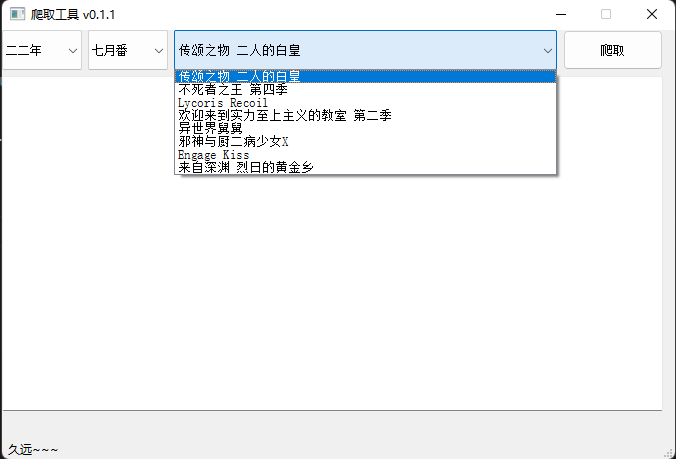
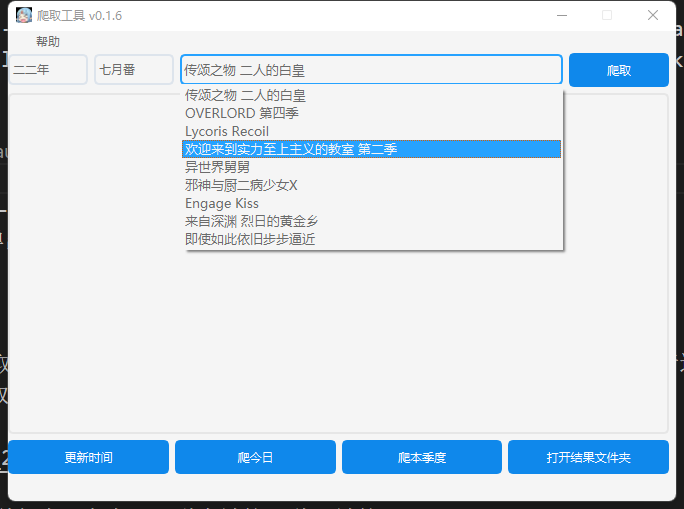
v1.0.0

Changed region(s): [[0.0, 0.0, 1.0, 1.0], [0.8698, 0.0, 0.9009, 0.0305], [0.8077, 0.0, 0.8388, 0.0305]]

diff --git a/gui.py b/gui.py
@@ -14,11 +14,11 @@ from PyQt5 import QtCore, QtGui, QtWidgets
 class Ui_MainWindow(object):
     def setupUi(self, MainWindow):
         MainWindow.setObjectName("MainWindow")
-        MainWindow.resize(673, 429)
+        MainWindow.resize(668, 470)
         self.centralwidget = QtWidgets.QWidget(MainWindow)
         self.centralwidget.setObjectName("centralwidget")
         self.verticalLayoutWidget = QtWidgets.QWidget(self.centralwidget)
-        self.verticalLayoutWidget.setGeometry(QtCore.QRect(0, 0, 661, 381))
+        self.verticalLayoutWidget.setGeometry(QtCore.QRect(0, 0, 661, 421))
         self.verticalLayoutWidget.setObjectName("verticalLayoutWidget")
         self.verticalLayout = QtWidgets.QVBoxLayout(self.verticalLayoutWidget)
         self.verticalLayout.setContentsMargins(0, 0, 0, 0)
@@ -56,9 +56,28 @@ class Ui_MainWindow(object):
         self.textBrowser = QtWidgets.QTextBrowser(self.verticalLayoutWidget)
         self.textBrowser.setObjectName("textBrowser")
         self.verticalLayout.addWidget(self.textBrowser)
+        self.horizontalLayout_2 = QtWidgets.QHBoxLayout()
+        self.horizontalLayout_2.setObjectName("horizontalLayout_2")
+        self.pushButton_2 = QtWidgets.QPushButton(self.verticalLayoutWidget)
+        self.pushButton_2.setMinimumSize(QtCore.QSize(0, 40))
+        self.pushButton_2.setObjectName("pushButton_2")
+        self.horizontalLayout_2.addWidget(self.pushButton_2)
+        self.pushButton_3 = QtWidgets.QPushButton(self.verticalLayoutWidget)
+        self.pushButton_3.setMinimumSize(QtCore.QSize(0, 40))
+        self.pushButton_3.setObjectName("pushButton_3")
+        self.horizontalLayout_2.addWidget(self.pushButton_3)
+        self.pushButton_4 = QtWidgets.QPushButton(self.verticalLayoutWidget)
+        self.pushButton_4.setMinimumSize(QtCore.QSize(0, 40))
+        self.pushButton_4.setObjectName("pushButton_4")
+        self.horizontalLayout_2.addWidget(self.pushButton_4)
+        self.pushButton_5 = QtWidgets.QPushButton(self.verticalLayoutWidget)
+        self.pushButton_5.setMinimumSize(QtCore.QSize(0, 40))
+        self.pushButton_5.setObjectName("pushButton_5")
+        self.horizontalLayout_2.addWidget(self.pushButton_5)
+        self.verticalLayout.addLayout(self.horizontalLayout_2)
         MainWindow.setCentralWidget(self.centralwidget)
         self.menubar = QtWidgets.QMenuBar(MainWindow)
-        self.menubar.setGeometry(QtCore.QRect(0, 0, 673, 22))
+        self.menubar.setGeometry(QtCore.QRect(0, 0, 668, 22))
         self.menubar.setObjectName("menubar")
         self.menu = QtWidgets.QMenu(self.menubar)
         self.menu.setObjectName("menu")
@@ -78,11 +97,8 @@ class Ui_MainWindow(object):
         self.action_4.setObjectName("action_4")
         self.action_5 = QtWidgets.QAction(MainWindow)
         self.action_5.setObjectName("action_5")
-        self.menu.addAction(self.action)
         self.menu.addAction(self.action_2)
-        self.menu_2.addAction(self.action_3)
-        self.menu_2.addAction(self.action_4)
-        self.menu_2.addAction(self.action_5)
+        self.menu.addAction(self.action_5)
         self.menubar.addAction(self.menu_2.menuAction())
         self.menubar.addAction(self.menu.menuAction())
 
@@ -101,8 +117,12 @@ class Ui_MainWindow(object):
 "p, li { white-space: pre-wrap; }\n"
 "</style></head><body style=\" font-family:\'SimSun\'; font-size:9pt; font-weight:400; font-style:normal;\">\n"
 "<p style=\"-qt-paragraph-type:empty; margin-top:0px; margin-bottom:0px; margin-left:0px; margin-right:0px; -qt-block-indent:0; text-indent:0px;\"><br /></p></body></html>"))
+        self.pushButton_2.setText(_translate("MainWindow", "更新时间"))
+        self.pushButton_3.setText(_translate("MainWindow", "爬今日"))
+        self.pushButton_4.setText(_translate("MainWindow", "爬本季度"))
+        self.pushButton_5.setText(_translate("MainWindow", "打开结果文件夹"))
         self.menu.setTitle(_translate("MainWindow", "帮助"))
-        self.menu_2.setTitle(_translate("MainWindow", "便利"))
+        self.menu_2.setTitle(_translate("MainWindow", " "))
         self.action.setText(_translate("MainWindow", "番剧更新时间"))
         self.action_2.setText(_translate("MainWindow", "使用说明"))
         self.action_3.setText(_translate("MainWindow", "爬取当前季度"))

diff --git a/main.py b/main.py
@@ -12,7 +12,7 @@ import  sqlite3
 import utils
 import threading
 import syncDb
-
+import os
 class wincore (QtWidgets.QMainWindow,Ui_MainWindow):
     def __init__(self):
         super(wincore,self).__init__()
@@ -21,7 +21,7 @@ class wincore (QtWidgets.QMainWindow,Ui_MainWindow):
         self.init()
         
     def init(self):
-        self.version = "v0.1.5"
+        self.version = "v0.1.6"
         #保存当前季度所有搜索目标
         self.targets = []
         self.dbName = ""
@@ -32,8 +32,12 @@ class wincore (QtWidgets.QMainWindow,Ui_MainWindow):
         self.setWindowTitle('爬取工具 ' + self.version)
         # logger.add("./log/webPrint.log",format="{time:YYYY-MM-DD at HH:mm:ss}|{level}|{message}",rotation="500 MB",encoding='utf-8',filter="",level="INFO")
 
-        #绑定事件
+        #按键
         self.pushButton.clicked.connect(self.buttonStart)
+        self.pushButton_2.clicked.connect(self.shwoAnimationUpdate)
+        self.pushButton_3.clicked.connect(self.spidertoday)
+        self.pushButton_4.clicked.connect(self.spiderAll)
+        self.pushButton_5.clicked.connect(self.openResultFile)
 
         #禁止窗口大小改变
         self.setFixedSize(self.width(), self.height())
@@ -53,10 +57,11 @@ class wincore (QtWidgets.QMainWindow,Ui_MainWindow):
         self.comboBox_2.currentIndexChanged.connect(self.combox2Change_event)
 
         #菜单
-        self.action.triggered.connect(self.shwoAnimationUpdate)
+        # self.action.triggered.connect(self.shwoAnimationUpdate)
+        # self.action_3.triggered.connect(self.spiderAll)
+        # self.action_4.triggered.connect(self.spidertoday)
+
         self.action_2.triggered.connect(self.readme)
-        self.action_3.triggered.connect(self.spiderAll)
-        self.action_4.triggered.connect(self.spidertoday)
         self.action_5.triggered.connect(self.updateDb)
         
         #读取配置
@@ -158,9 +163,12 @@ class wincore (QtWidgets.QMainWindow,Ui_MainWindow):
     def readme(self):
         QDesktopServices.openUrl(QUrl("https://github.com/lissettecarlr/spider-animate"))
 
-    # 通过数据库查询星期，然后轮询
+    # 爬取今日
     def spidertoday(self):
         res = utils.selectTablebyTodayWeek(self.dbName)
+        if(res == []):
+            self.showMessage("没有今日更新")
+            return
         targets = []
         for p in res:
             targets.append({"name":p["name"],"key":p["key"]})
@@ -188,19 +196,24 @@ class wincore (QtWidgets.QMainWindow,Ui_MainWindow):
     # 右键菜单
     def showMenu(self,pos):
         self.contextMenu.exec_(QCursor.pos()) 
+
     def Event(self):
         if(self.sender().text() == "清空显示"):
             self.textBrowser.clear()
+
     def updateDb(self):
         syncDb.getAnimationDb()
         self.showMessage("更新番列表完成",color="red")
 
-import os
+    # 打开结果文件夹
+    def openResultFile(self):
+        path = self.basePath + "\\result"
+        os.startfile(path)
+
 
 def winOpen(sys):
     QApplication.setAttribute(Qt.AA_EnableHighDpiScaling)
     app= QtWidgets.QApplication(sys.argv)
-
     # 配置
     try:
         base = os.path.dirname(os.path.realpath(sys.argv[0]))

diff --git a/Search.py b/Search.py
@@ -149,6 +149,7 @@ class  searchTask(threading.Thread):
                     pass
             utils.saveHtmlTable(self.table,self.htmlFile)
             self.uiPrint("对比上次搜索，更新了{}个".format(NewInfoCount))
+            
  
 def getSearchPageNum(soup) -> int:
     return spiderTo36dm.getSearchPageNum(soup)

diff --git a/README.md b/README.md
@@ -4,38 +4,44 @@
 ## 简述
 为了便利舍弃通用性，毕竟这软件就是自用的
 
-## 打包
-```
-pyinstaller -F ./main.py --noconsole -p C:\Users\dell\AppData\Local\Programs\Python\Python39\Lib;C:\Users\dell\AppData\Local\Programs\Python\Python39\Lib\site-packages; 
-```
+## 使用
 
-## 直接使用
-* 下载spider-animate.zip，解压后得到两个文件：Animation.db、xxx.exe
-* 执行exe，弹出界面，通过年份季度筛选，目前爬取动漫目录固定。
-
+## 操作
+* 下载spider-animate.zip，解压后双击执行exe文件即可
+* 界面中，通过年份季度筛选此季度的番剧，目前支持的数量被保存在animation.db中，sqlite会的自己加载去改。我会根据自己的需要更新云端数据库，本地的可以通过帮助中的按钮来拉更新。
 ![](./pic/p_1.png)
 
-* 选择需要爬取的目标，点击爬取按钮，等待打印窗口提示爬取完成，然后在执行这个软件目录会有一个result文件夹，该文件夹存放所有爬取动漫的信息。
-
-![](./pic/p_2.png)
+* 结果被保存在result文件夹中，可以直接通过按钮打开，有两种格式html和csv。
+![](../../pic/p_2.png)
 
 * 打开后能看到名称、大小、和磁力链接、种子链接
+
+## 功能按钮
+
+* 更新时间：打印番剧更新时间是星期几
+* 爬今日：爬取今日更新的番剧
+* 爬所有：爬取选择季度的番剧
+* 打开结果文件夹：如其名
 
 
 ## 菜单栏
 
-### 便利
-
-* 爬取今日更新 
-批量爬取当前选择季度的今日更新动漫
-
-* 爬取当前季度
-批量爬取当前选择季度的所有动漫
 
 ### 帮助
 
-* 番剧更新时间
-在信息框中显示当前季度动漫的更新时间
+* 拉去番列表
+通过云端数据库更新本地数据库额番剧列表
 
 * 使用说明
 链接github项目主页
+
+
+## 开发
+### 环境
+```
+
+```
+### 打包
+```
+pyinstaller -F ./main.py --noconsole -p C:\Users\dell\AppData\Local\Programs\Python\Python39\Lib;C:\Users\dell\AppData\Local\Programs\Python\Python39\Lib\site-packages; 
+```
